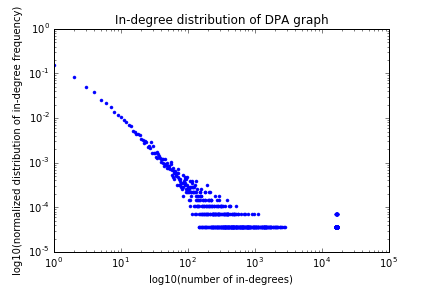
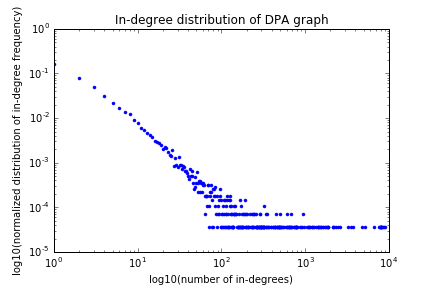
Updated test run for DPAGraphGen

diff --git a/DPAGraphGen.py b/DPAGraphGen.py
@@ -80,7 +80,7 @@ def dpa_gen(num_nodes, exist_nodes):
 
         
 # Test graphs for DPA
-dpa_graph = dpa_gen(27770, 179)
+dpa_graph = dpa_gen(27770, 13)
 #print dpa_graph
 
 # Run in-degree distriubtion on randomly generated graph
